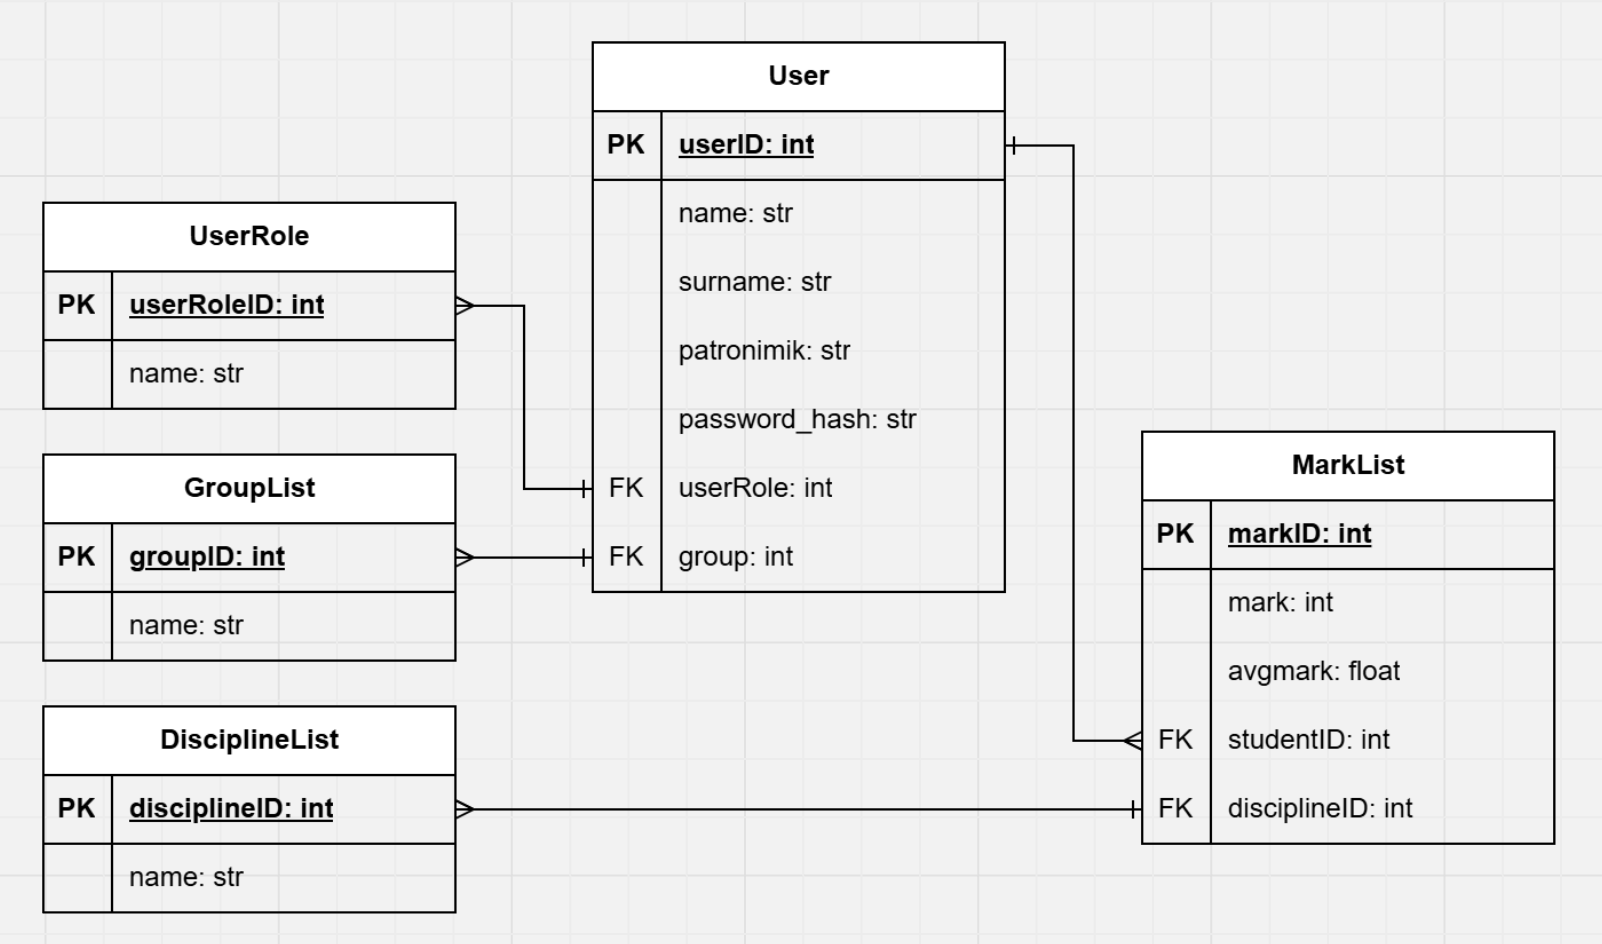
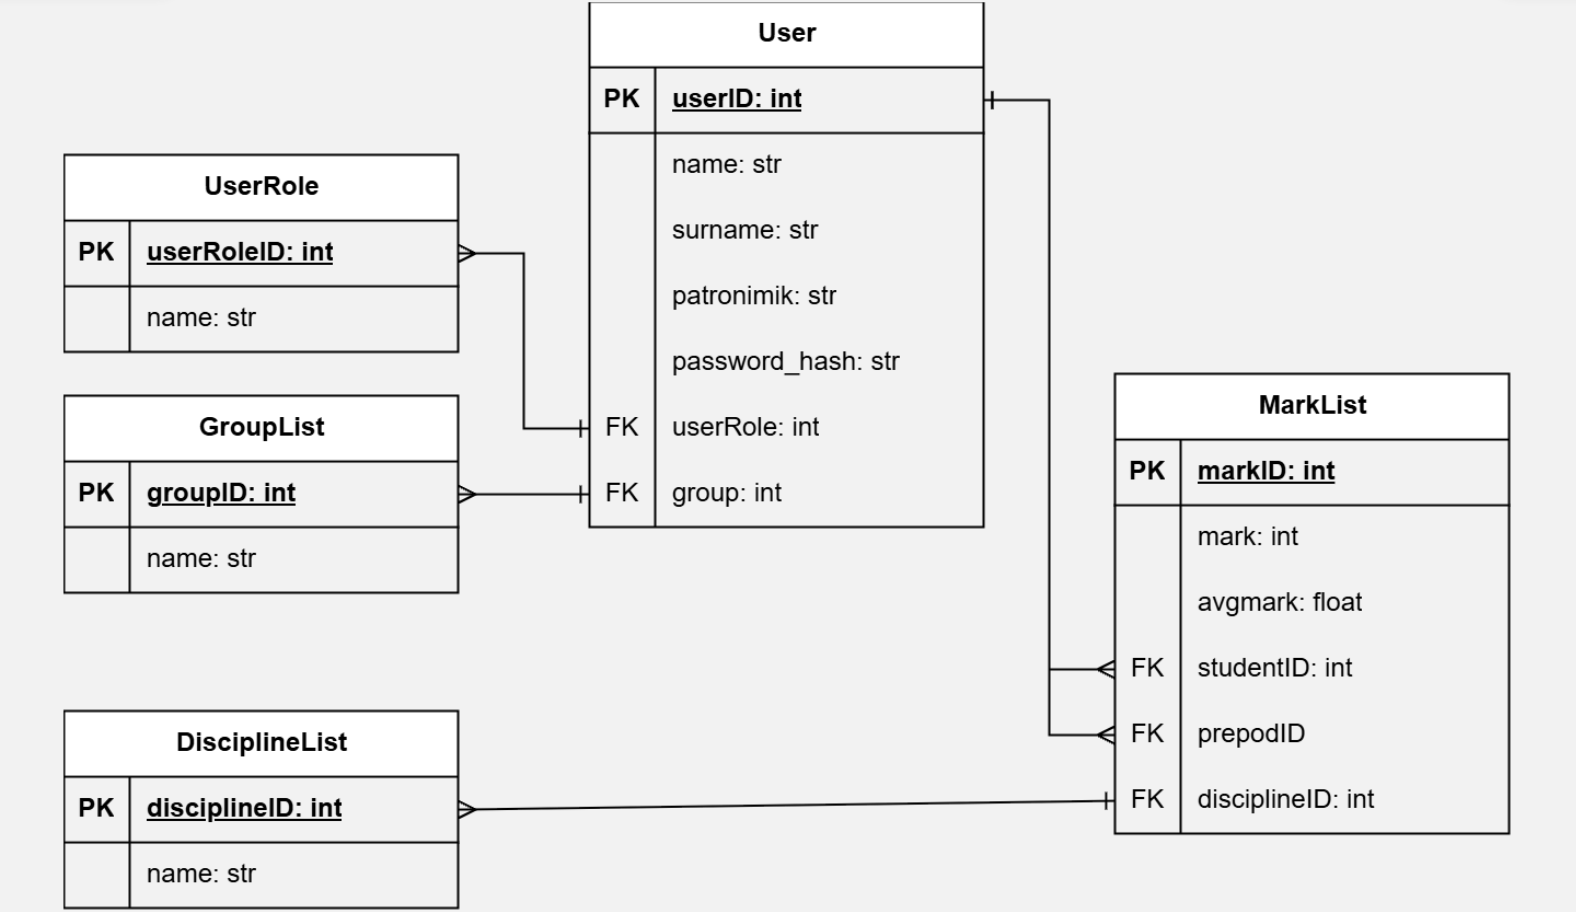
fix

Changed region(s): [[0.0311, 0.0307, 0.9949, 1.0]]

diff --git a/src/saas/menu.py b/src/saas/menu.py
@@ -169,7 +169,7 @@ def mark_update_menu(user):
                         for s_idx, std in enumerate(students, 1):
                             avg = mark_service.get_average(std.userID, selected_disc.disciplineID)
                             print(
-                                f"{s_idx}. {std.name} {std.patronymic if std.patronymic else ''} [Текущий ср. балл: {avg:.2f}]")
+                                f"{s_idx}. {std.surname} {std.name} {std.patronymic if std.patronymic else ''} [Текущий ср. балл: {avg:.2f}]")
                         print("0. Назад")
 
                         student_choice = input("Выберите номер студента для изменения оценок: ")

diff --git a/src/saas/services/discipline_service.py b/src/saas/services/discipline_service.py
@@ -7,7 +7,8 @@ def create_discipline(name: str):
         raise ValueError("Discipline name cannot be empty")
 
     for d in discipline_repository.get_all():
-        raise ValueError("Discipline already exists")
+        if d.name == name:
+            raise ValueError("Discipline already exists")
 
     return discipline_repository.create(name)
 
